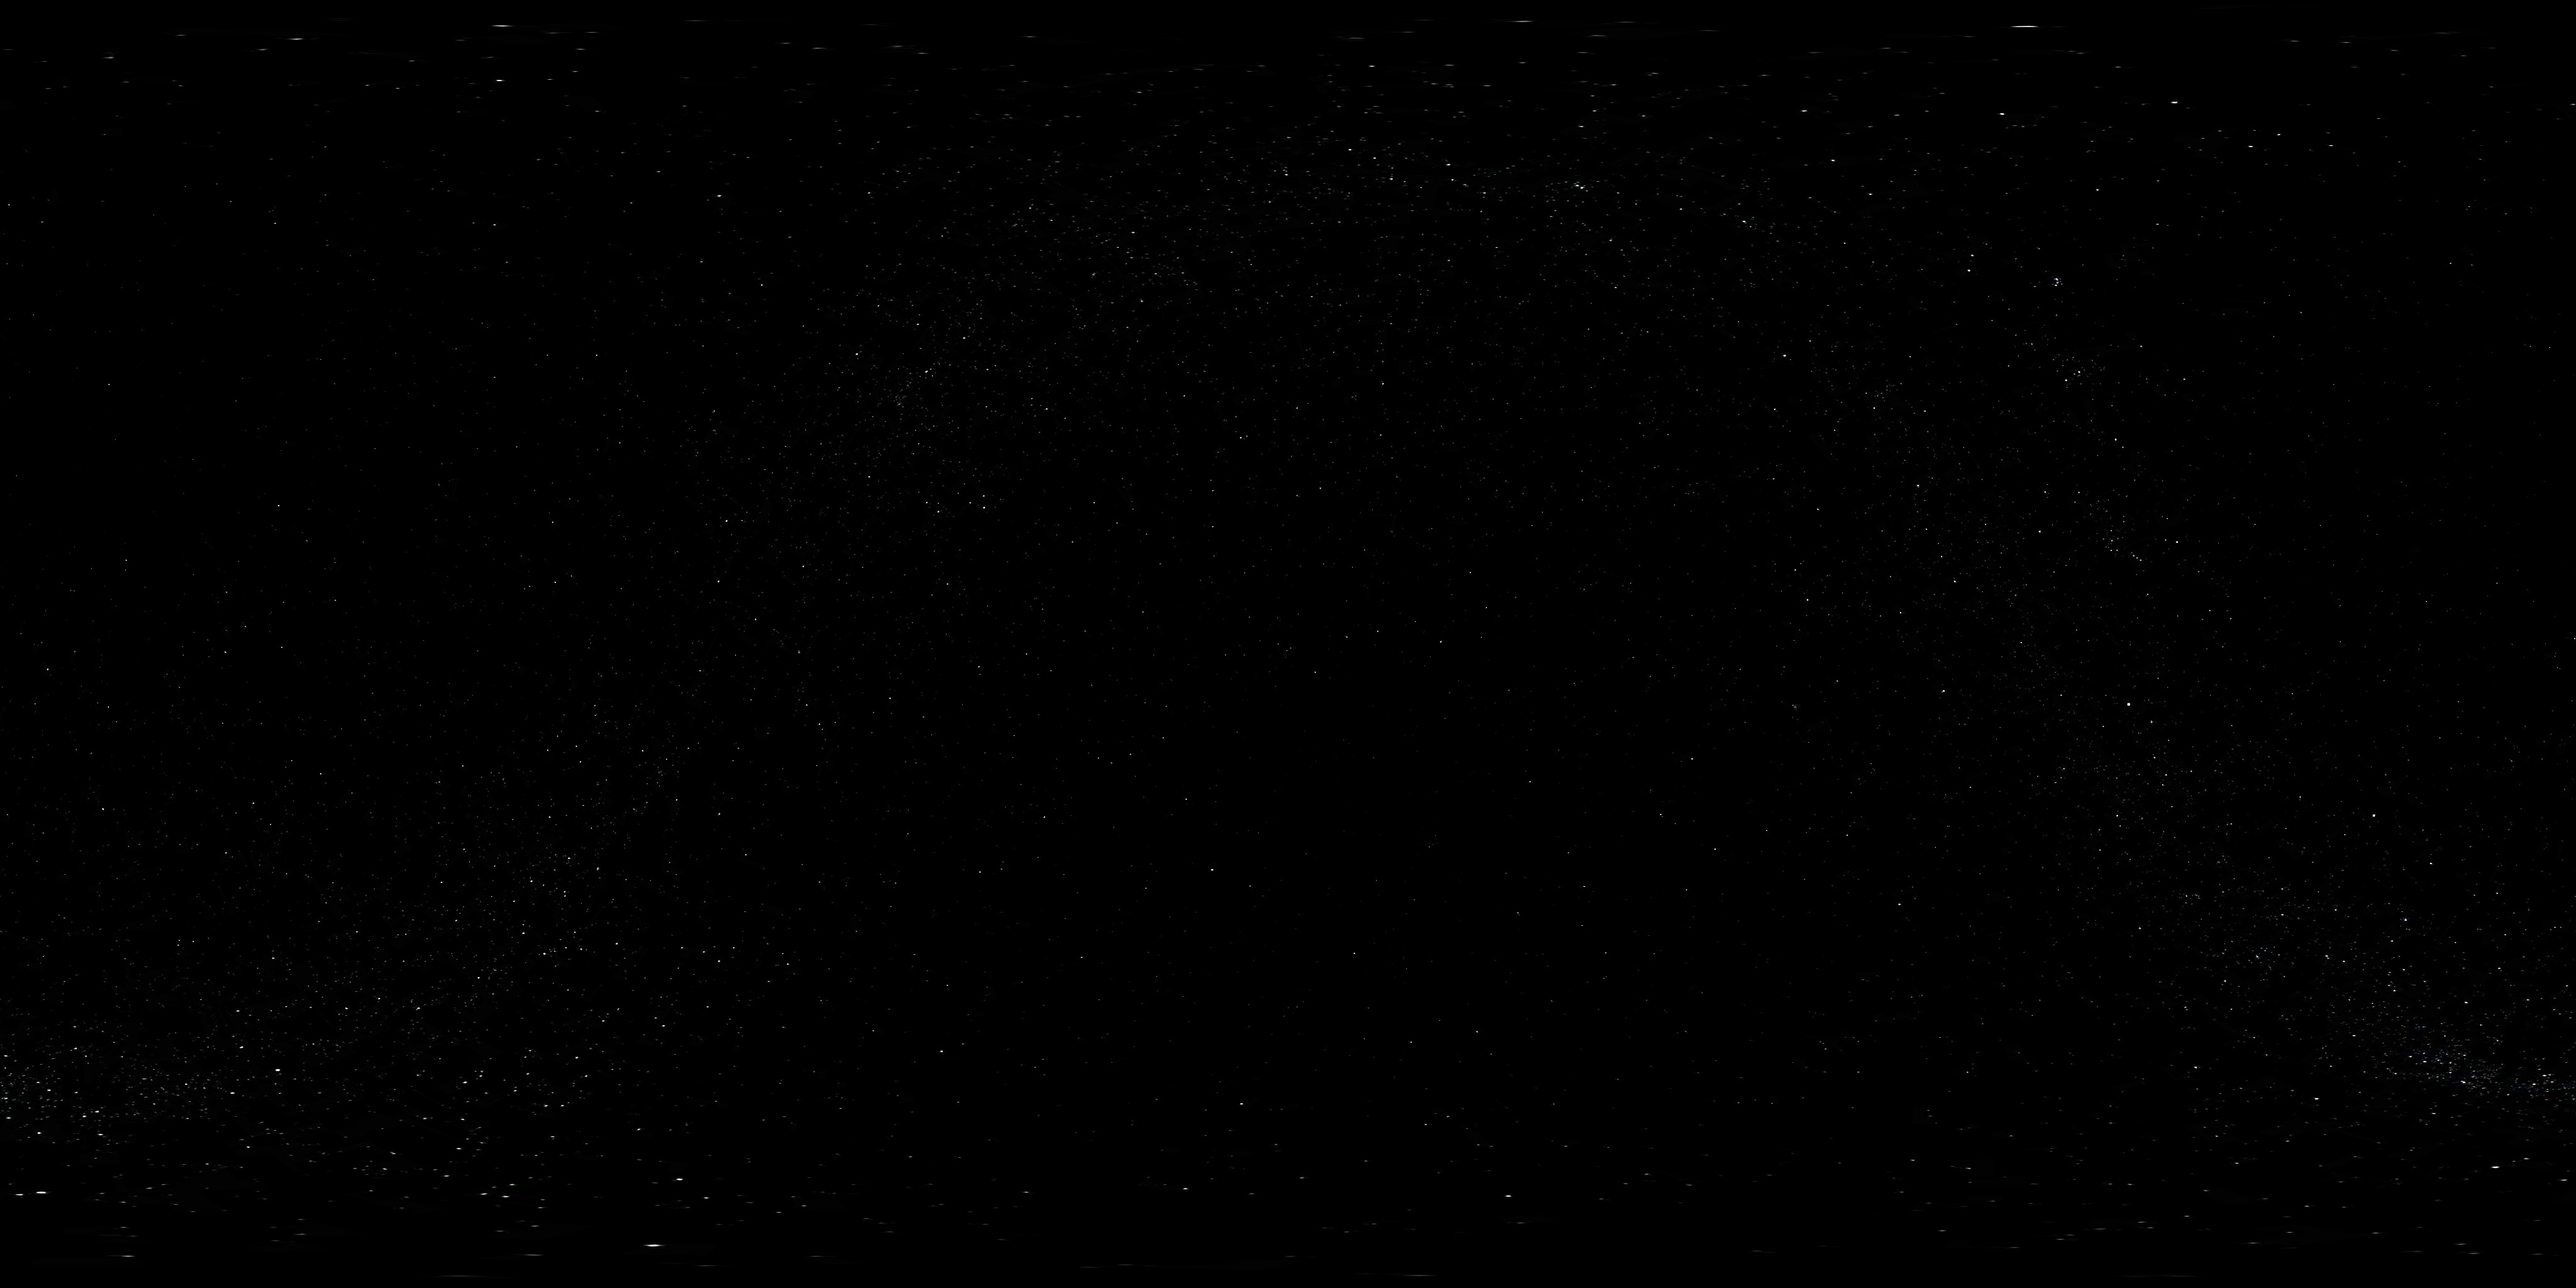
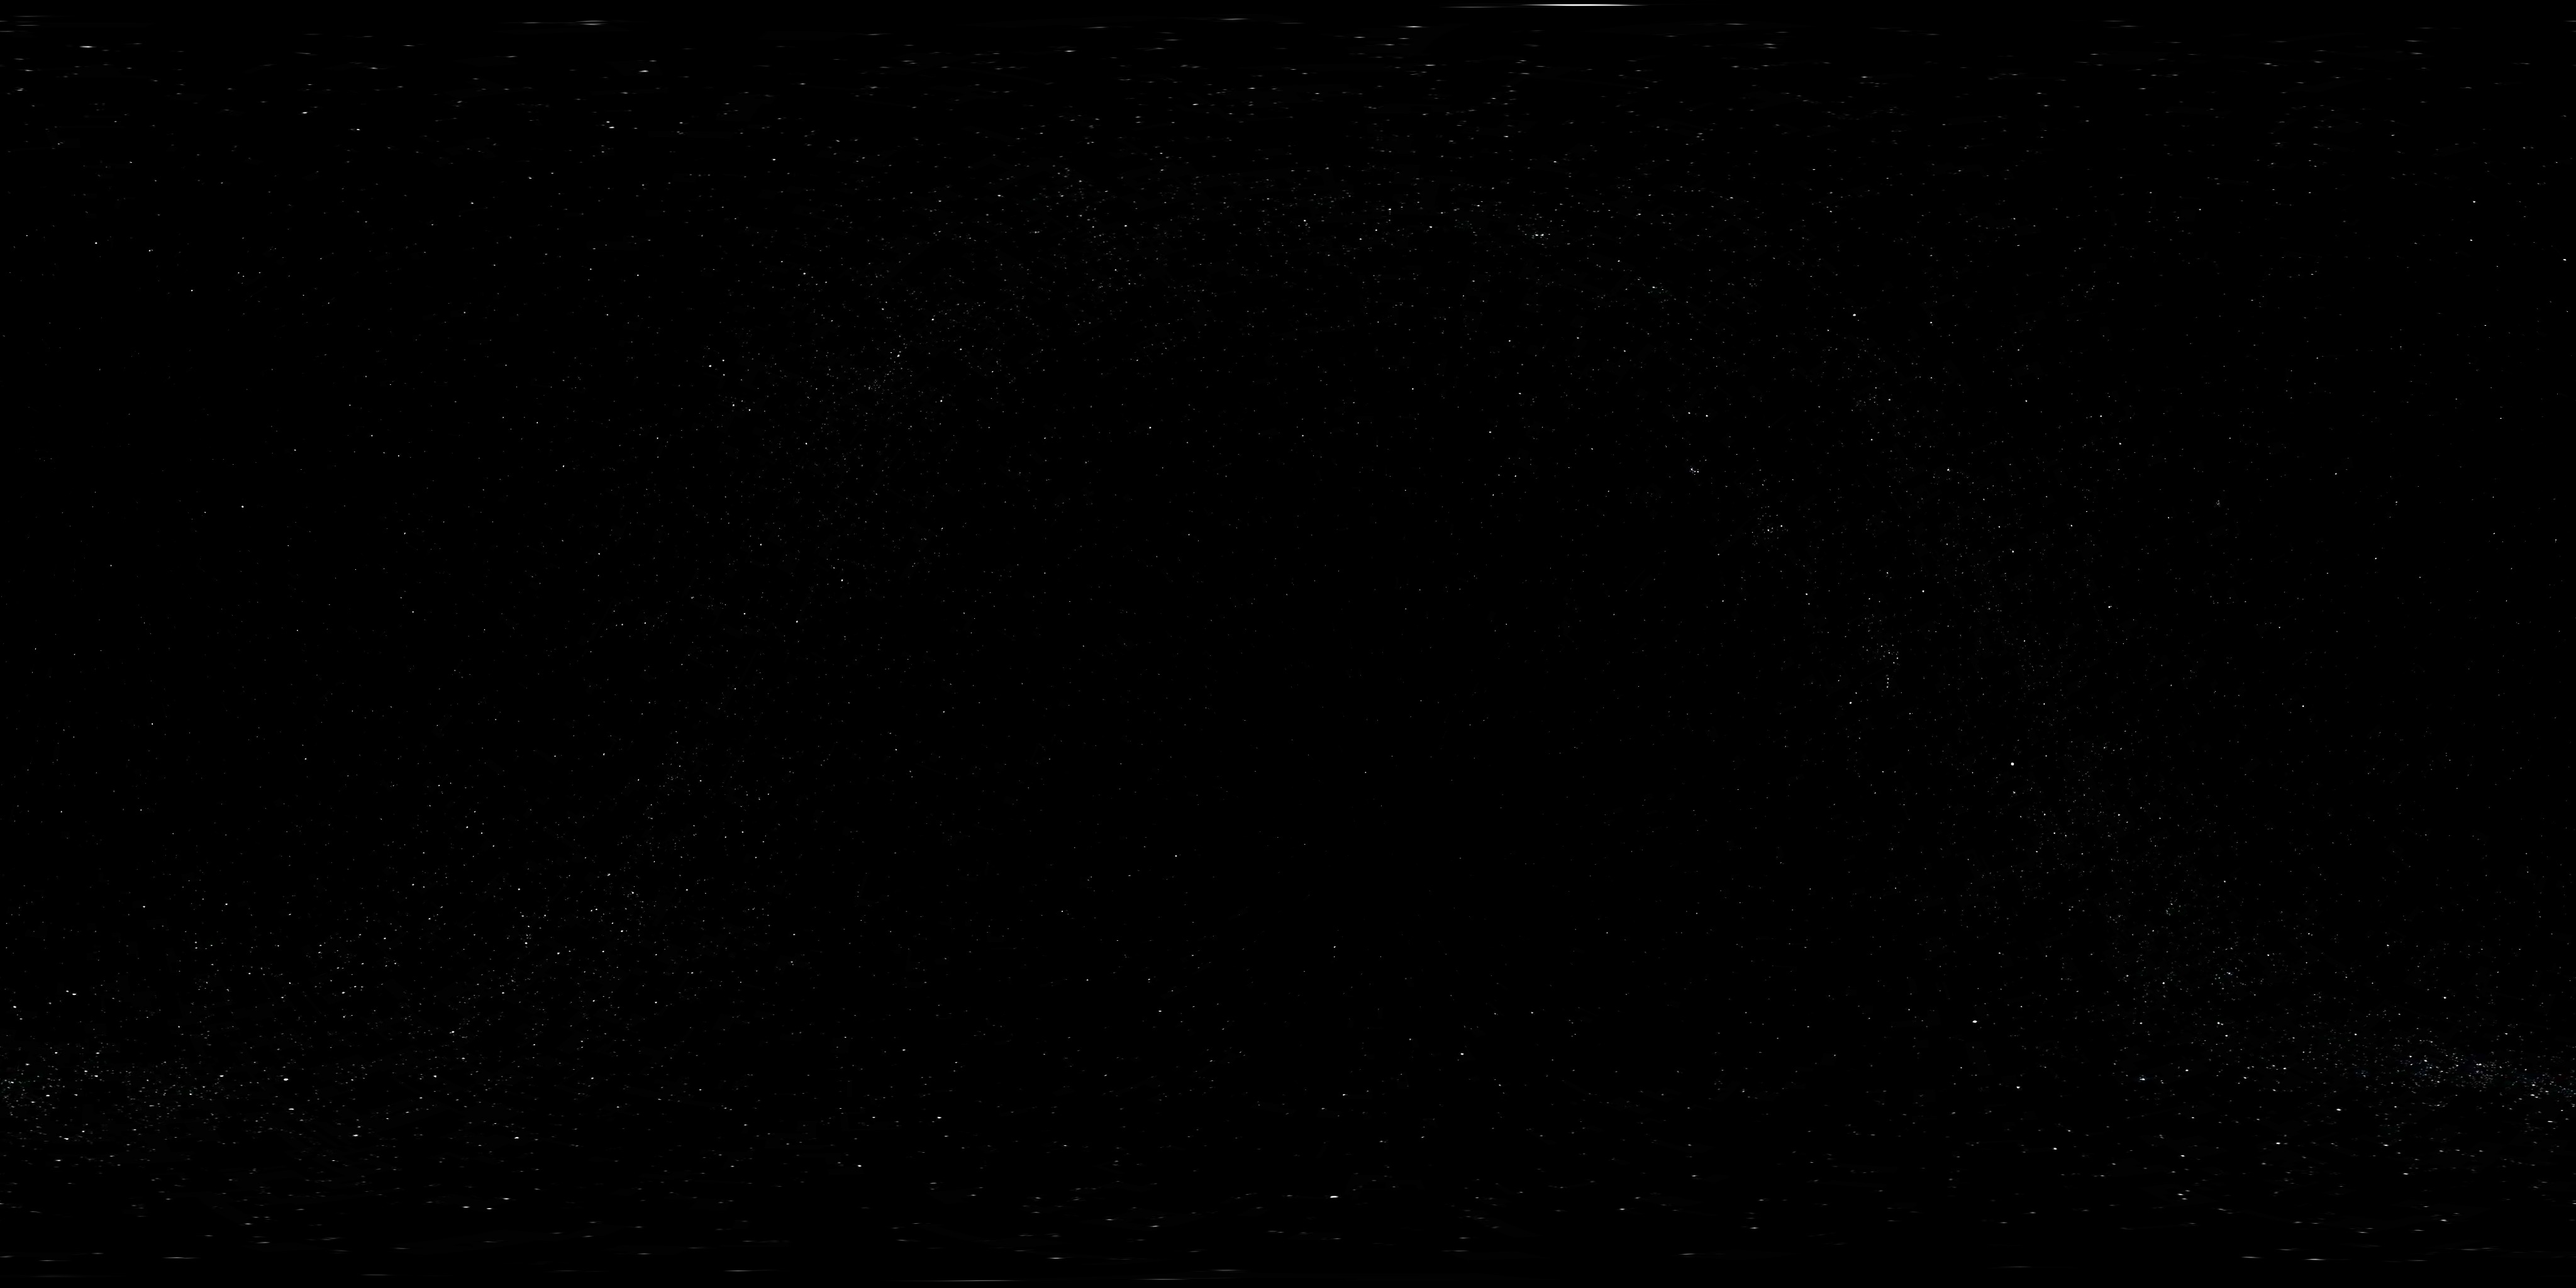
Žvaigždžių fonas: šaltinyje galaktikos šiaurė apačioje – perskaičiuota (ryškiausios žvaigždės sutampa su RA/Dec)
Claude-Session: https://claude.ai/code/session_01PG2pUfFP5suDoJvoHrUF1a

Changed region(s): [[0.9375, 0.8125, 0.9688, 0.8438]]

diff --git a/tools/stars_to_eq.py b/tools/stars_to_eq.py
@@ -1,5 +1,5 @@
 #!/usr/bin/env python3
-"""Žvaigždžių fono konvertavimas: galaktinės koordinatės (centras l=0, b=0; l didėja į kairę) ->
+"""Žvaigždžių fono konvertavimas: galaktinės koordinatės (centras l=0, b=0; l didėja į kairę; b=+90 apačioje) ->
 lygiakampė RA/Dec (u: RA −180..180, v: Dec +90..−90), IAU J2000 matrica. Naudojimas: stars_to_eq.py įvestis išvestis.jpg"""
 import sys, numpy as np
 from PIL import Image
@@ -11,7 +11,7 @@ ra = np.radians(-180 + 360 * (np.arange(OW) + 0.5) / OW); de = np.radians(90 - 1
 RA, DE = np.meshgrid(ra, de)
 g = np.stack([np.cos(DE) * np.cos(RA), np.cos(DE) * np.sin(RA), np.sin(DE)], -1) @ M.T
 l = np.degrees(np.arctan2(g[..., 1], g[..., 0])); b = np.degrees(np.arcsin(np.clip(g[..., 2], -1, 1)))
-xi = (W / 2 - l / 360 * W - 0.5) % W; yi = np.clip(H / 2 - b / 180 * H - 0.5, 0, H - 1)
+xi = (W / 2 - l / 360 * W - 0.5) % W; yi = np.clip(H / 2 + b / 180 * H - 0.5, 0, H - 1)   # šaltinyje galaktikos šiaurė apačioje
 x0 = np.floor(xi).astype(int); y0 = np.floor(yi).astype(int); x1 = (x0 + 1) % W; y1 = np.minimum(y0 + 1, H - 1)
 ax = (xi - x0)[..., None]; ay = (yi - y0)[..., None]
 out = (s[y0, x0] * (1 - ax) + s[y0, x1] * ax) * (1 - ay) + (s[y1, x0] * (1 - ax) + s[y1, x1] * ax) * ay
